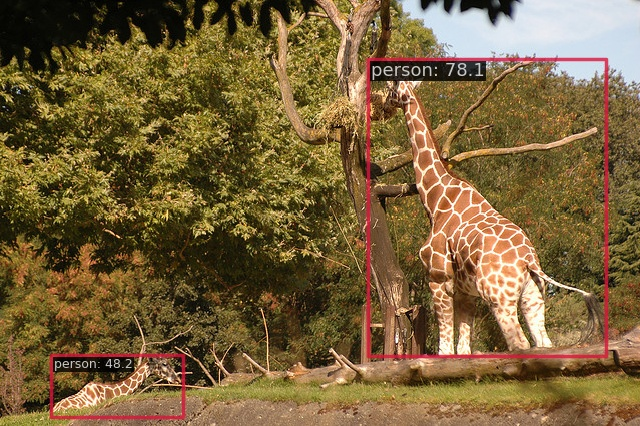
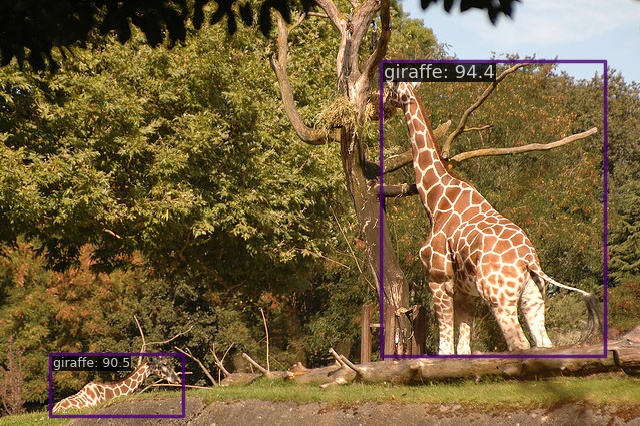
add coco 1class

Changed region(s): [[0.5625, 0.1221, 0.9688, 0.8545], [0.0625, 0.8239, 0.3125, 1.0]]

diff --git a/configs/_base_/datasets/coco_1class/coco_1class_detection_yolox_640.py b/configs/_base_/datasets/coco_1class/coco_1class_detection_yolox_640.py
@@ -1,0 +1,95 @@
+# dataset settings
+img_scale = (640, 640)  # height, width
+
+data_root = 'data/coco/'
+dataset_type = 'CocoDataset'
+metainfo = dict(CLASSES=['foreground'], PALETTE=[(220, 20, 60)])
+
+file_client_args = dict(backend='disk')
+
+train_pipeline = [
+    dict(type='Mosaic', img_scale=img_scale, pad_val=114.0),
+    dict(
+        type='RandomAffine',
+        scaling_ratio_range=(0.1, 2),
+        border=(-img_scale[0] // 2, -img_scale[1] // 2)),
+    dict(
+        type='MixUp',
+        img_scale=img_scale,
+        ratio_range=(0.8, 1.6),
+        pad_val=114.0),
+    dict(type='YOLOXHSVRandomAug'),
+    dict(type='RandomFlip', prob=0.5),
+    # According to the official implementation, multi-scale
+    # training is not considered here but in the
+    # 'mmdet/models/detectors/yolox.py'.
+    # Resize and Pad are for the last 15 epochs when Mosaic,
+    # RandomAffine, and MixUp are closed by YOLOXModeSwitchHook.
+    dict(type='Resize', scale=img_scale, keep_ratio=True),
+    dict(
+        type='Pad',
+        pad_to_square=True,
+        # If the image is three-channel, the pad value needs
+        # to be set separately for each channel.
+        pad_val=dict(img=(114.0, 114.0, 114.0))),
+    dict(type='FilterAnnotations', min_gt_bbox_wh=(1, 1), keep_empty=False),
+    dict(type='PackDetInputs')
+]
+
+train_dataset = dict(
+    # use MultiImageMixDataset wrapper to support mosaic and mixup
+    type='MultiImageMixDataset',
+    dataset=dict(
+        type=dataset_type,
+        data_root=data_root,
+        ann_file='annotations/instances_train2017_1class.json',
+        data_prefix=dict(img='train2017/'),
+        metainfo=metainfo,
+        pipeline=[
+            dict(type='LoadImageFromFile', file_client_args=file_client_args),
+            dict(type='LoadAnnotations', with_bbox=True)
+        ],
+        filter_cfg=dict(filter_empty_gt=False, min_size=32)),
+    pipeline=train_pipeline)
+
+test_pipeline = [
+    dict(type='LoadImageFromFile', file_client_args=file_client_args),
+    dict(type='Resize', scale=img_scale, keep_ratio=True),
+    dict(
+        type='Pad',
+        pad_to_square=True,
+        pad_val=dict(img=(114.0, 114.0, 114.0))),
+    dict(type='LoadAnnotations', with_bbox=True),
+    dict(
+        type='PackDetInputs',
+        meta_keys=('img_id', 'img_path', 'ori_shape', 'img_shape',
+                   'scale_factor'))
+]
+
+train_dataloader = dict(
+    batch_size=32,
+    num_workers=8,
+    persistent_workers=True,
+    sampler=dict(type='DefaultSampler', shuffle=True),
+    dataset=train_dataset)
+val_dataloader = dict(
+    batch_size=32,
+    num_workers=4,
+    persistent_workers=True,
+    drop_last=False,
+    sampler=dict(type='DefaultSampler', shuffle=False),
+    dataset=dict(
+        type=dataset_type,
+        data_root=data_root,
+        ann_file='annotations/instances_val2017_1class.json',
+        data_prefix=dict(img='val2017/'),
+        metainfo=metainfo,
+        test_mode=True,
+        pipeline=test_pipeline))
+test_dataloader = val_dataloader
+
+val_evaluator = dict(
+    type='CocoMetric',
+    ann_file=data_root + 'annotations/instances_val2017_1class.json',
+    metric='bbox')
+test_evaluator = val_evaluator

diff --git a/tools/dataset_converters/prepare_1class.py b/tools/dataset_converters/prepare_1class.py
@@ -1,0 +1,34 @@
+import argparse
+
+import mmengine
+
+CATEGORIES = ('foreground', )
+CAT2IDX = {cat: idx for idx, cat in enumerate(CATEGORIES)}
+
+
+def parse_args():
+    parser = argparse.ArgumentParser(description='Convert dataset to 1 class')
+
+    parser.add_argument('input', help='input json file path')
+    parser.add_argument('output', help='output json file path')
+
+    return parser.parse_args()
+
+
+def main():
+    args = parse_args()
+    data = mmengine.load(args.input)
+
+    data['categories'] = [{
+        'id': idx + 1,
+        'name': cat,
+    } for cat, idx in CAT2IDX.items()]
+
+    for ann in data['annotations']:
+        ann['category_id'] = 1
+
+    mmengine.dump(data, args.output)
+
+
+if __name__ == '__main__':
+    main()

diff --git a/configs/projects/coco1class/yolox/yolox_s_coco1class.py b/configs/projects/coco1class/yolox/yolox_s_coco1class.py
@@ -1,0 +1,10 @@
+_base_ = [
+    'mmdet::_base_/default_runtime.py', '../../../_base_/models/yolox_s.py',
+    '../../../_base_/datasets/coco_1class/coco_1class_detection_yolox_640.py',
+    '../../../_base_/schedules/yolox/yolox_300e.py'
+]
+custom_imports = dict(imports=['dethub'], allow_failed_imports=False)
+
+# model settings
+num_classes = 1
+model = dict(bbox_head=dict(num_classes=num_classes))

diff --git a/configs/projects/coco1class/README.md b/configs/projects/coco1class/README.md
@@ -1,0 +1,45 @@
+# COCO 1class
+
+[COCO](https://cocodataset.org/#home)
+
+## Run demo
+
+```
+$ docker compose exec dethub python tools/image_demo.py configs/projects/coco/demo/000000000025.jpg configs/projects/coco1class/yolox/yolox_s_coco1class.py https://github.com/okotaku/dethub-weights/releases/download/v0.1.1coco1class/yolox_s_coco1class-596787a8.pth --out-file configs/projects/coco1class/demo/000000000025_demo.jpg
+```
+
+![plot](demo/000000000025_demo.jpg)
+
+## Prepare datasets
+
+1. Prepare dataset based on [projects/coco](../coco/README.md)
+
+2. Preprocess 1 class annotation.
+
+```
+$ docker compose exec dethub python  tools/dataset_converters/prepare_1class.py data/coco/annotations/instances_train2017.json data/coco/annotations/instances_train2017_1class.json
+$ docker compose exec dethub python tools/dataset_converters/prepare_1class.py data/coco/annotations/instances_val2017.json data/coco/annotations/instances_val2017_1class.json
+```
+
+## Run train
+
+Set env variables
+
+```
+$ export DATA_DIR=/path/to/data
+```
+
+Start a docker container
+
+```
+$ docker compose up -d dethub
+```
+
+Run train
+
+```
+# single gpu
+$ docker compose exec dethub mim train mmdet configs/projects/coco1class/yolox/yolox_s_coco1class.py
+# multi gpus
+$ docker compose exec dethub mim train mmdet configs/projects/coco1class/yolox/yolox_s_coco1class.py --gpus 2 --launcher pytorch
+```

diff --git a/configs/projects/coco/README.md b/configs/projects/coco/README.md
@@ -7,14 +7,14 @@
 todo: fix demo that is not rpn because of class name issue
 
 ```
-$ docker compose exec dethub python tools/image_demo.py configs/projects/coco/demo/000000000025.jpg configs/projects/coco/rpn/atss_rpn_r50_fpn_1x_coco.py https://github.com/okotaku/dethub-weights/releases/download/v0.1.1cocorpn/atss_rpn_r50_fpn_1x_coco-81af958b.pth --out-file configs/projects/coco/demo/000000000025_demo.jpg
+$ docker compose exec dethub python tools/image_demo.py configs/projects/coco/demo/000000000025.jpg configs/projects/coco/yolox/yolox_s_swin_s_coco.py https://github.com/okotaku/dethub-weights/releases/download/v0.1.1cocoyolox/yolox_s_swin_s-19d4228f.pth --out-file configs/projects/coco/demo/000000000025_demo.jpg
 ```
 
 ![plot](demo/000000000025_demo.jpg)
 
 ## Prepare datasets
 
-1. Download data from from [official page](https://cocodataset.org/#home)
+1. Download data from [official page](https://cocodataset.org/#home)
 
 ```
 wget http://images.cocodataset.org/zips/train2017.zip

diff --git a/configs/projects/coco1class/yolox/README.md b/configs/projects/coco1class/yolox/README.md
@@ -1,0 +1,11 @@
+# YOLOX
+
+[model page](../../../yolox/README.md)
+
+## Results and Models
+
+#### Box Results
+
+|      Backbone      | box AP |             Config              |                                                       Download                                                        |
+| :----------------: | :----: | :-----------------------------: | :-------------------------------------------------------------------------------------------------------------------: |
+| yolox_s_coco1class |  39.9  | [config](yolox_s_coco1class.py) | [model](https://github.com/okotaku/dethub-weights/releases/download/v0.1.1coco1class/yolox_s_coco1class-596787a8.pth) |
